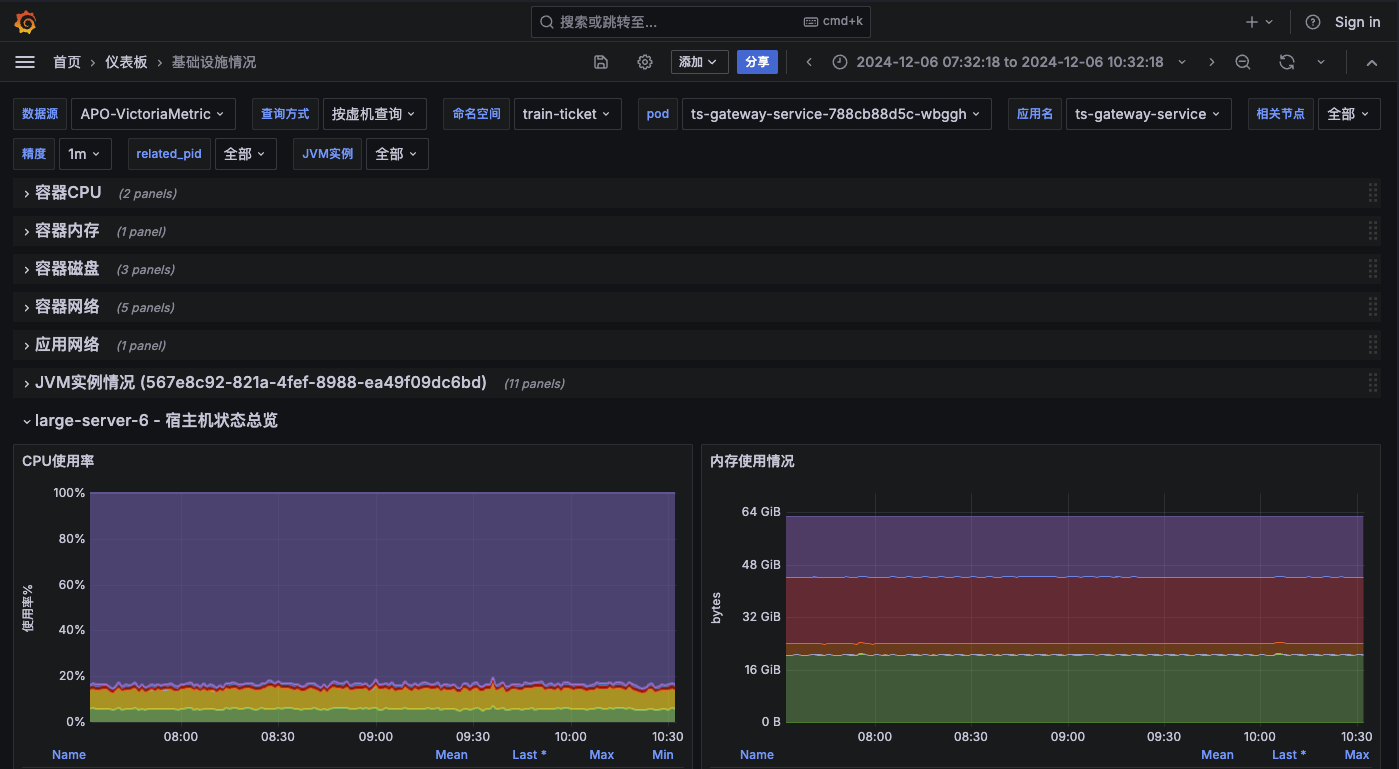
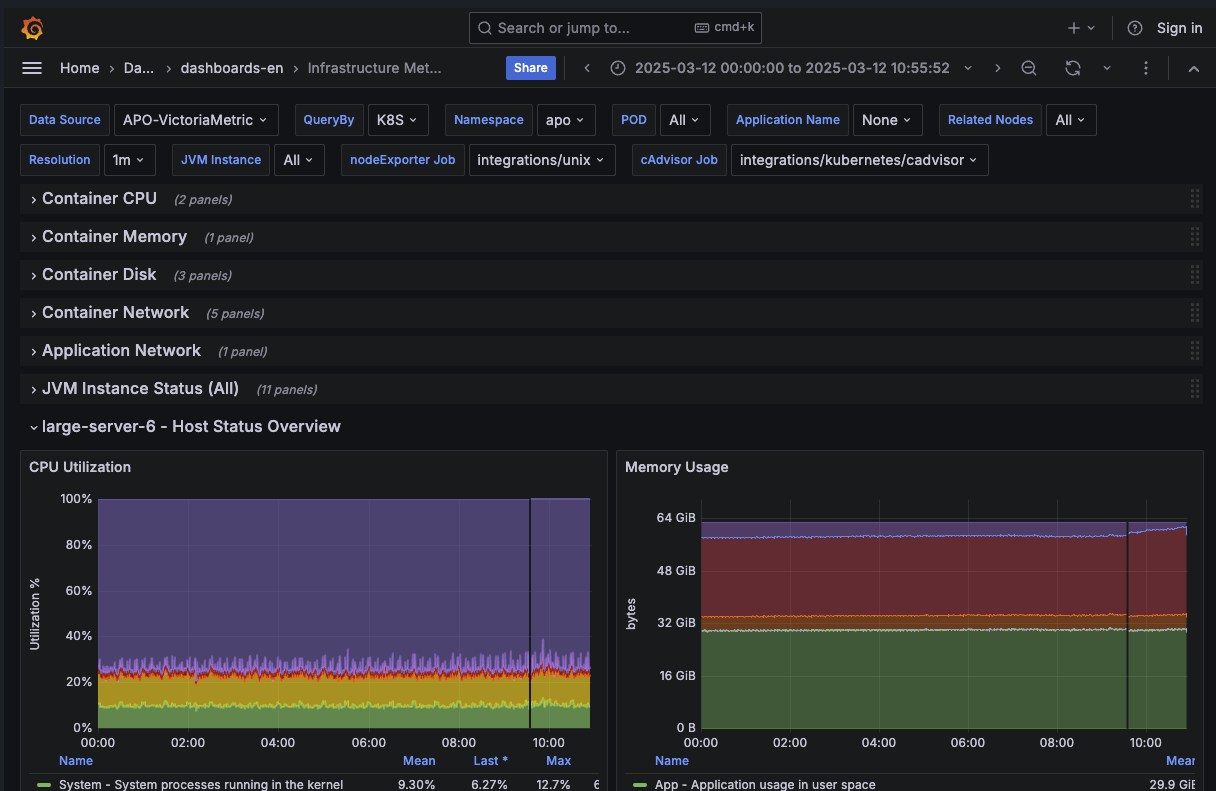
chore:png to en

diff --git a/frontend/src/pro/views/chatAI/ChatAICom/Explanations.tsx b/frontend/src/pro/views/chatAI/ChatAICom/Explanations.tsx
@@ -1,5 +1,5 @@
 import { Image } from 'antd'
-import { t } from 'i18next'
+import i18next, { t } from 'i18next'
 import mock1Png from 'src/pro/assets/1.png'
 import mock2Png from 'src/pro/assets/2.png'
 import mock5Png from 'src/pro/assets/5.png'
@@ -7,15 +7,53 @@ import mock61Png from 'src/pro/assets/6-1.png'
 import mock62Png from 'src/pro/assets/6-2.png'
 import mock7Png from 'src/pro/assets/7.png'
 import mock8Png from 'src/pro/assets/8.png'
+import mock1PngEn from 'src/pro/assets/en/1.png'
+import mock2PngEn from 'src/pro/assets/en/2.png'
+import mock5PngEn from 'src/pro/assets/en/5.png'
+import mock61PngEn from 'src/pro/assets/en/6-1.png'
+import mock62PngEn from 'src/pro/assets/en/6-2.png'
+import mock7PngEn from 'src/pro/assets/en/7.png'
+import mock8PngEn from 'src/pro/assets/en/8.png'
 const i18nKey = 'pro/chatAI:explanations'
+const pngLagnguageMap = {
+  topologyExample: {
+    en: mock1PngEn,
+    zh: mock1Png,
+  },
+  alertAnalysisTimeRange: {
+    en: mock2PngEn,
+    zh: mock2Png,
+  },
+  upstream: {
+    en: mock5PngEn,
+    zh: mock5Png,
+  },
+  alertsFirst: {
+    en: mock61PngEn,
+    zh: mock61Png,
+  },
+  alertsSecond: {
+    en: mock62PngEn,
+    zh: mock62Png,
+  },
+  rootCause: {
+    en: mock7PngEn,
+    zh: mock7Png,
+  },
+  summary: {
+    en: mock8PngEn,
+    zh: mock8Png,
+  },
+}
+const language = i18next.language
 export const Explanations = [
   <div>
     <div>{t(`${i18nKey}.topologyExample`)}</div>
-    <Image src={mock1Png} width={'60%'} />
+    <Image src={pngLagnguageMap.topologyExample[language]} width={'60%'} />
   </div>,
   <>
     <div>{t(`${i18nKey}.alertAnalysisTimeRange`)}</div>
-    <Image src={mock2Png} width={'90%'} />
+    <Image src={pngLagnguageMap.alertAnalysisTimeRange[language]} width={'90%'} />
   </>,
   <>{t(`${i18nKey}.identifySuspectedRootCause`)}</>,
   <>
@@ -33,25 +71,25 @@ export const Explanations = [
     <div>{t(`${i18nKey}.alertPropagationExample`)}</div>
     <div>{t(`${i18nKey}.upstreamNotRootCause`)}</div>
     <div>{t(`${i18nKey}.alertPropagationProcess`)}</div>
-    <Image src={mock5Png} width={'100%'} />
+    <Image src={pngLagnguageMap.upstream[language]} width={'100%'} />
   </>,
   <>
     <div>{t(`${i18nKey}.intermittentAlerts`)}</div>
     <div>{t(`${i18nKey}.intermittentAlertDefinition`)}</div>
     <div>{t(`${i18nKey}.alertOccurredAt`)}</div>
-    <Image src={mock61Png} width={'100%'} />
+    <Image src={pngLagnguageMap.alertsFirst[language]} width={'100%'} />
     <div>{t(`${i18nKey}.alertResolvedAt`)}</div>
-    <Image src={mock62Png} width={'100%'} />
+    <Image src={pngLagnguageMap.alertsSecond[language]} width={'100%'} />
   </>,
   <>
     <div>{t(`${i18nKey}.rootCauseAlertPropagation`)}</div>
     <div>{t(`${i18nKey}.alertPropagationBreak`)}</div>
-    <Image src={mock7Png} width={'100%'} />
+    <Image src={pngLagnguageMap.rootCause[language]} width={'100%'} />
   </>,
   <>
     <div>{t(`${i18nKey}.summary`)}</div>
     <div>{t(`${i18nKey}.aiModelAccuracy`)}</div>
     <div>{t(`${i18nKey}.configurableAiModel`)}</div>
-    <Image src={mock8Png} width={'100%'} />
+    <Image src={pngLagnguageMap.summary[language]} width={'100%'} />
   </>,
 ]

diff --git a/frontend/src/pro/contexts/ChatAIContext.tsx b/frontend/src/pro/contexts/ChatAIContext.tsx
@@ -29,6 +29,7 @@ import FaultSiteLogsWrapper from '../components/DataViewCom/FaultSiteLogs'
 import InstanceTable from '../components/DataViewCom/InstanceTable'
 import ErrorInstanceTable from '../components/DataViewCom/ErrorInstanceTable'
 import PolarisPng from 'src/pro/assets/9-1.png'
+import PolarisPngEn from 'src/pro/assets/en/9-1.png'
 import MetricsDashboardCom from '../components/DataViewCom/MetricsDashboard'
 import { showToast } from 'src/core/utils/toast'
 import GlossaryTable from 'src/core/components/PolarisMetrics/GlossaryTable'
@@ -43,7 +44,7 @@ const imageMap = {
     error: errorInstanceImgEN,
     log: logsImgEN,
     dashboard: dashboardImgEN,
-    slow: PolarisPng,
+    slow: PolarisPngEn,
   },
   zh: {
     service: serviceImgZH,
@@ -214,6 +215,8 @@ export const ChatAIProvider: React.FC<{ children: ReactNode }> = ({ children }) 
     setCauseConfirmvisibilit(false)
     setCauseNode(selectedSuspectedNode)
     try {
+      const language = i18next.language
+      const timeZone = Intl.DateTimeFormat().resolvedOptions().timeZone
       const response = await streamFetch('/ai/api/nodeinfo', {
         method: 'POST',
         headers: {
@@ -231,6 +234,8 @@ export const ChatAIProvider: React.FC<{ children: ReactNode }> = ({ children }) 
           anormalTypes: anormalTypes.join(','),
           withTopology: true,
           type: type,
+          language: language,
+          timezone: timeZone,
         }),
       })
 

diff --git a/frontend/src/pro/views/chatAI/ChatAICom/CauseConfirm/DataViewConfirmStep/SlowDataTypeExample.tsx b/frontend/src/pro/views/chatAI/ChatAICom/CauseConfirm/DataViewConfirmStep/SlowDataTypeExample.tsx
@@ -1,11 +1,12 @@
 import PolarisPng from 'src/pro/assets/9-1.png'
+import PolarisPngEn from 'src/pro/assets/en/9-1.png'
 import { Image } from 'antd'
-import { t } from 'i18next'
+import i18next, { t } from 'i18next'
 const SlowDataTypeExample = () => {
   return (
     <div className="text-center overflow-hidden">
       <div>{t('pro/chatAI:causeConfirm.slowDataDesc')}</div>
-      <Image src={PolarisPng} width={200} />
+      <Image src={i18next.language === 'en' ? PolarisPngEn : PolarisPng} width={200} />
     </div>
   )
 }

diff --git a/frontend/src/pro/components/DataViewCom/ServiceTable.tsx b/frontend/src/pro/components/DataViewCom/ServiceTable.tsx
@@ -60,7 +60,7 @@ export default function ServiceTable({ data }) {
               <div className="flex flex-row justify-center items-center">
                 <div>
                   <div className="text-center flex flex-row ">{t('delaySource')}</div>
-                  <div className="block text-[10px]">(自身/依赖/未知)</div>
+                  <div className="block text-[10px]">{t('delaySourceType')}</div>
                 </div>
                 <AiOutlineInfoCircle size={16} className="ml-1" />
               </div>
